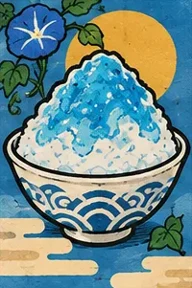
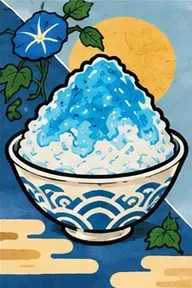
Neon: ingredient cards repainted in their element's colours, split on the diagonals; frames kept
Claude-Session: https://claude.ai/code/session_016Xc9gNx6YJECRqnANDcioa

diff --git a/themes/neon/theme.css b/themes/neon/theme.css
@@ -1,4 +1,4 @@
-/* Neon: every ingredient card wears a frame in its element's colour; a diagonal card's frame is split
+/* Neon: every ingredient card wears a frame (kept for the look) in its element's colour; a diagonal card's frame is split
    corner to corner (the first element top-right, the second bottom-left), as Kusurifuda's own cards are */
 .ic.paper.el-F{--ce:var(--F)}.ic.paper.el-W{--ce:var(--W)}.ic.paper.el-E{--ce:var(--E)}.ic.paper.el-A{--ce:var(--A)}.ic.paper.el-V{--ce:var(--V)}
 .ic.paper.el2-F{--ce2:var(--F)}.ic.paper.el2-W{--ce2:var(--W)}.ic.paper.el2-E{--ce2:var(--E)}.ic.paper.el2-A{--ce2:var(--A)}

diff --git a/sw.js b/sw.js
@@ -1,6 +1,6 @@
 /* Kusurifuda service worker — precaches the whole game so it plays offline.
    Version is a hash of the app files, so any change ships a fresh cache. */
-const VERSION = "98223c94d8";
+const VERSION = "dbdccfa2ca";
 // the live game and the beta (/beta/) share an origin, so their caches are named apart and never cleared by each other
 const BETA = /\/beta\/$/.test(self.registration.scope);
 const PFX = BETA ? "kusurifuda-beta-" : "kusurifuda-";
